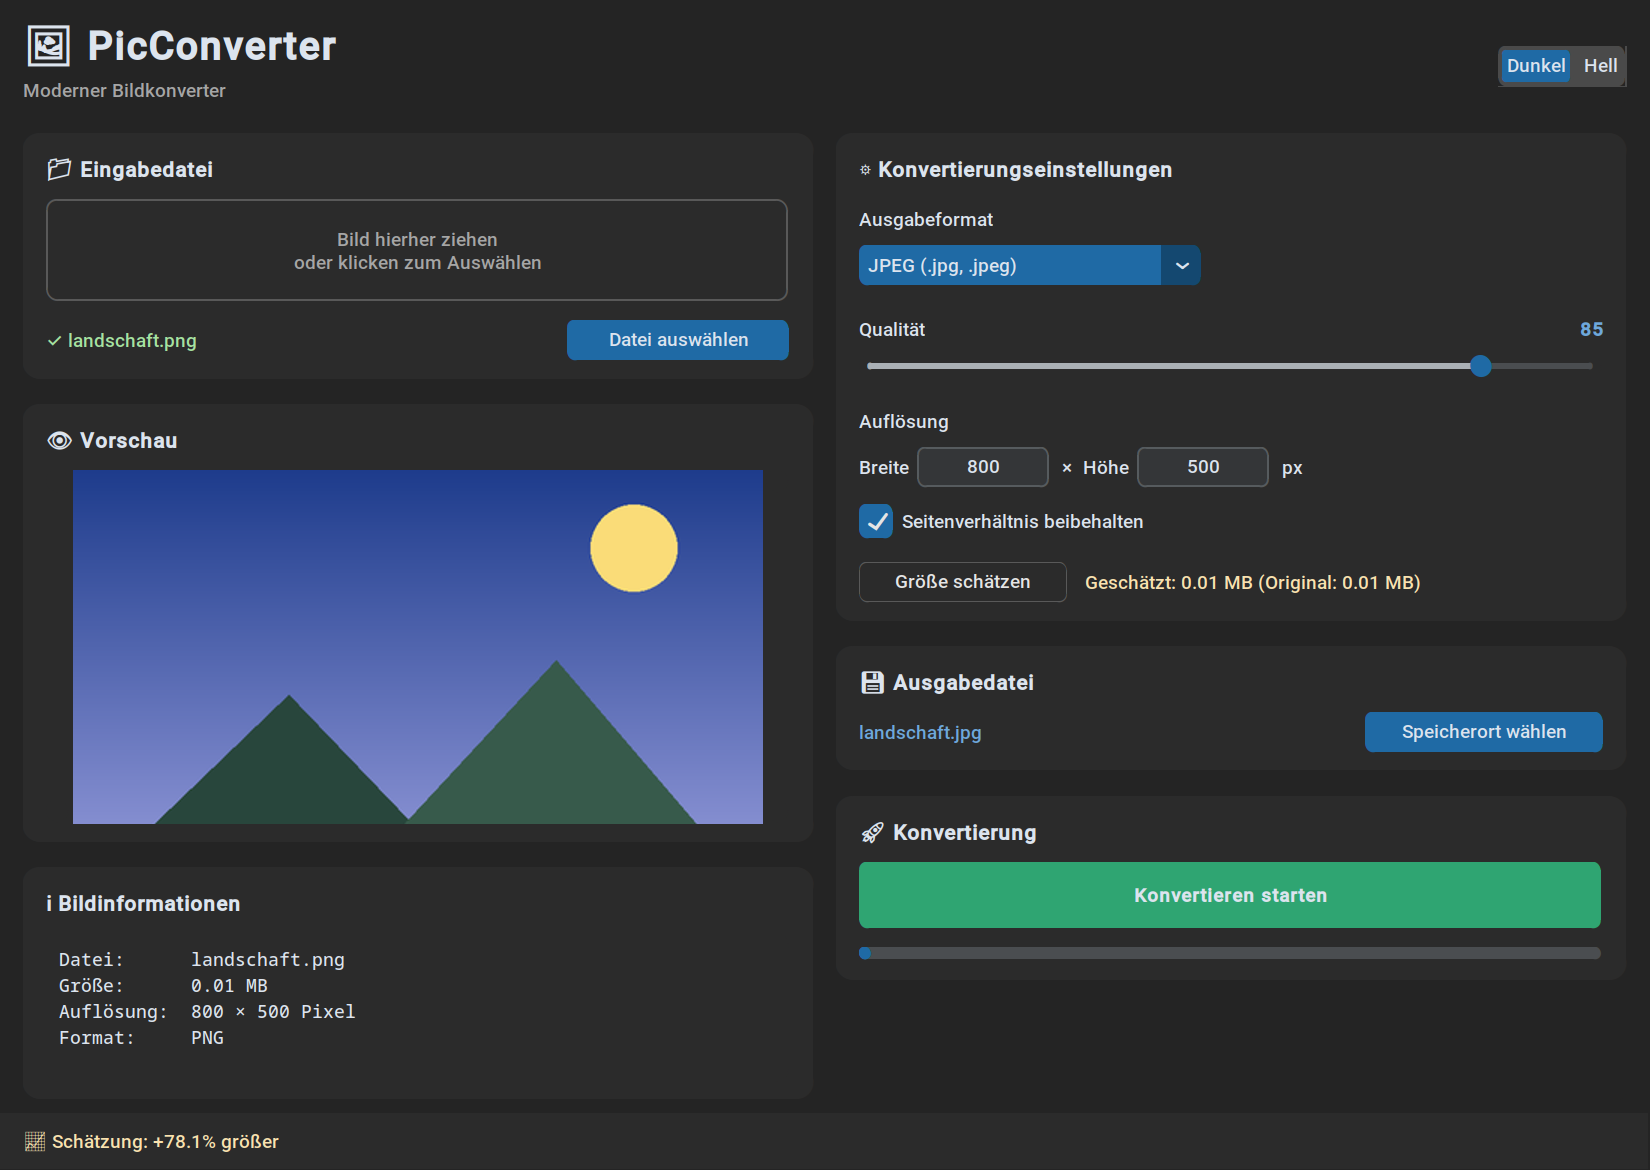
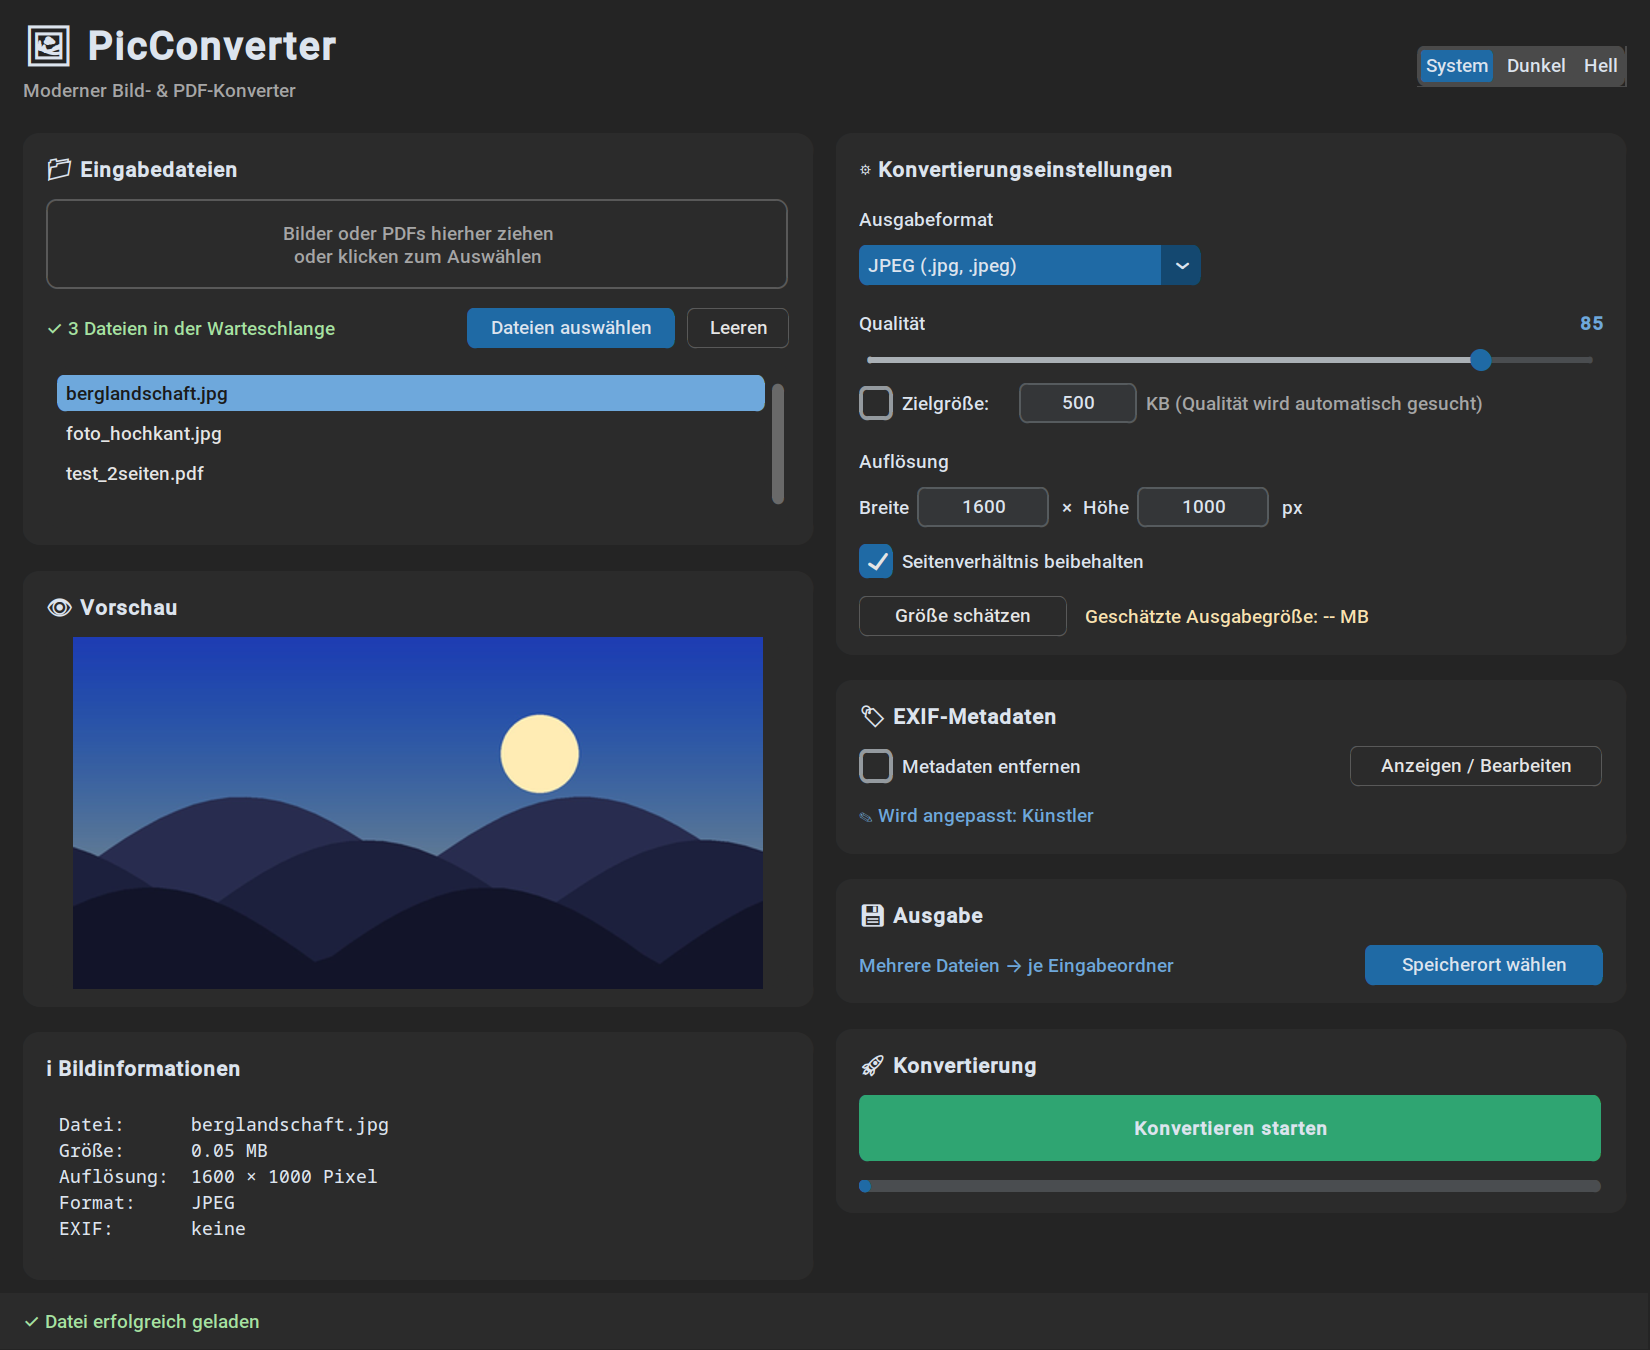
Packaging, Desktop-Eintrag, zweisprachige README, neuer Screenshot
- pyproject.toml mit Entry Points (picconverter, picconverter-gui), v2.0.0
- picconverter.desktop für Linux-Startmenü
- README überarbeitet + englische README.en.md

diff --git a/README.en.md b/README.en.md
@@ -1,0 +1,192 @@
+# 🖼️ PicConverter
+
+[![Python](https://img.shields.io/badge/Python-3.9+-3776AB?style=flat&logo=python&logoColor=white)](https://www.python.org/)
+[![Tests](https://github.com/0xGI0/PicConverter/actions/workflows/tests.yml/badge.svg)](https://github.com/0xGI0/PicConverter/actions/workflows/tests.yml)
+[![CustomTkinter](https://img.shields.io/badge/GUI-CustomTkinter-1f538d?style=flat)](https://github.com/TomSchimansky/CustomTkinter)
+[![License: MIT](https://img.shields.io/badge/License-MIT-yellow.svg)](LICENSE)
+
+🇩🇪 [Deutsche Version](README.md)
+
+An **image & PDF conversion tool** for Python with a modern GUI (CustomTkinter) and a CLI for automation. Converts single files or whole batches between all common image formats and PDF — with EXIF management, target-size mode, and size estimation.
+
+> **Note:** The user interface and CLI output are currently in German.
+
+![Screenshot](screenshot.png)
+
+---
+
+## ✨ Features
+
+- **All common image formats**: JPEG, PNG, BMP, TIFF, GIF, WebP, ICO
+- **PDF in both directions**: save images as PDF or export PDF pages as images (page selection, all pages, DPI choice)
+- **Batch processing**: queue multiple files via drag & drop, or use globs like `*.jpg` in the CLI
+- **Combined PDF**: merge multiple images (and PDF pages) into one multi-page PDF
+- **EXIF metadata**: automatic correct image orientation; keep, strip, or edit metadata fields (artist, copyright, date, …)
+- **Target size instead of quality**: specify "max. 500 KB" — the matching quality is found automatically (JPEG/WebP)
+- **Adjustable quality/compression**, **resizing** with aspect-ratio preservation, and **size estimation** before converting
+- **Modern interface**: follows the system theme (switchable to dark/light), live preview, PDF page navigation, inline results with "open folder"
+- **Two modes**: GUI for interactive use, CLI for scripts and automation
+
+---
+
+## 🚀 Installation
+
+```bash
+git clone https://github.com/0xGI0/PicConverter.git
+cd PicConverter
+pip install -r requirements.txt
+```
+
+This installs:
+
+| Package | Purpose |
+|---------|---------|
+| `Pillow` | Image processing |
+| `customtkinter` | Modern GUI |
+| `tkinterdnd2` | Drag & drop (optional — the GUI works without it) |
+| `PyMuPDF` | PDF → image (optional — image → PDF works without it) |
+
+**Install as a package (optional):** afterwards the commands `picconverter` and `picconverter-gui` are available system-wide:
+
+```bash
+pip install .[all]        # or: pipx install .[all]
+```
+
+**Application menu entry (Linux, after package installation):**
+
+```bash
+cp picconverter.desktop ~/.local/share/applications/
+```
+
+**Note (Linux):** tkinter itself is installed via the package manager if missing:
+
+```bash
+sudo apt-get install python3-tk    # Ubuntu/Debian
+sudo dnf install python3-tkinter   # Fedora/RHEL
+sudo pacman -S tk                  # Arch Linux
+```
+
+---
+
+## 💻 Usage
+
+### 🎨 GUI
+
+```bash
+python picconverter_gui.py        # or: picconverter-gui
+```
+
+1. Drag images or PDFs into the window or load them via **"Dateien auswählen"** (select files) — multiple files form a queue; for PDFs a **page navigation** appears
+2. Choose the **output format** (including PDF); with PDF as target, all inputs can be **merged into one PDF**
+3. Adjust the **quality** — or set a **target size in KB** (JPEG/WebP)
+4. Optionally **strip EXIF metadata** or edit individual fields via **"Anzeigen / Bearbeiten"** (view / edit)
+5. Optionally enter a new **resolution**, use **"Größe schätzen"** (estimate size) for a forecast
+6. Hit **"Konvertieren starten"** (start conversion) — results appear inline, **"📂 Ordner öffnen"** (open folder) takes you to the files
+
+The switch in the top right corner toggles between **system**, **dark**, and **light** mode.
+
+### ⌨️ CLI
+
+```bash
+python picconverter_cli.py <inputs...> -f <format> [options]
+```
+
+**Examples:**
+
+```bash
+# JPG to PNG
+python picconverter_cli.py photo.jpg -f png
+
+# Batch: all JPGs to WebP into an output directory
+python picconverter_cli.py *.jpg -f webp -q 85 -o output/
+
+# Compress to at most 500 KB (quality is found automatically)
+python picconverter_cli.py photo.jpg -f jpg --target-size 500
+
+# Save an image as PDF
+python picconverter_cli.py photo.jpg -f pdf
+
+# Export all pages of a PDF as PNG (300 DPI)
+python picconverter_cli.py document.pdf -f png --page all --dpi 300
+
+# Merge multiple scans into one multi-page PDF
+python picconverter_cli.py scan1.png scan2.png -f pdf --merge -o document.pdf
+
+# Strip or edit EXIF metadata
+python picconverter_cli.py photo.jpg -f jpg --strip-exif
+python picconverter_cli.py photo.jpg -f jpg --exif-set "Artist=Jane Doe" --exif-set Copyright=
+
+# Size estimate only (without converting)
+python picconverter_cli.py image.jpg -f webp -q 85 --estimate
+```
+
+**Options:**
+
+| Option | Short | Description | Example |
+|--------|-------|-------------|---------|
+| `--format` | `-f` | Target format (required) | `-f png` |
+| `--output` | `-o` | Output file or directory | `-o image.jpg` |
+| `--quality` | `-q` | Quality/compression | `-q 90` |
+| `--target-size` | | Target size in KB (JPEG/WebP) | `--target-size 500` |
+| `--width` | `-w` | Width in pixels¹ | `-w 1920` |
+| `--height` | | Height in pixels¹ | `--height 1080` |
+| `--page` | | PDF page or `all` (default: 1) | `--page all` |
+| `--dpi` | | PDF render DPI (default: 150) | `--dpi 300` |
+| `--merge` | | Everything into one PDF (`-f pdf` only) | `--merge` |
+| `--strip-exif` | | Remove EXIF metadata | `--strip-exif` |
+| `--exif-set` | | Set/delete an EXIF field | `--exif-set Artist=Me` |
+| `--estimate` | | Estimate size only | `--estimate` |
+
+¹ If only one dimension is given, the other is derived preserving the aspect ratio.
+**Note:** `-h` is reserved for `--help`, hence `--height` for the height.
+
+**EXIF fields for `--exif-set`:** `ImageDescription`, `Artist`, `Copyright`, `Software`, `DateTime`, `Make`, `Model` — an empty value (`--exif-set Copyright=`) deletes the field.
+
+---
+
+## 📊 Supported formats
+
+| Format | Input | Output | Quality setting | Range |
+|--------|-------|--------|-----------------|-------|
+| **JPEG** | ✅ | ✅ | Quality | 1–100 |
+| **PNG** | ✅ | ✅ | Compression | 0–9 |
+| **WebP** | ✅ | ✅ | Quality | 0–100 |
+| **BMP** | ✅ | ✅ | – | – |
+| **TIFF** | ✅ | ✅ | Compression | 0–9 |
+| **GIF** | ✅ | ✅ | – | – |
+| **ICO** | ✅ | ✅ | – | – |
+| **PDF** | ✅ (requires PyMuPDF) | ✅ | – | – |
+
+- **JPEG/WebP**: higher values = better quality (default: 85 / 80)
+- **PNG**: lower values = better quality (default: 6)
+- **TIFF**: LZW compression is applied automatically
+- **Transparency**: JPEG, BMP, and PDF do not support transparency — it is automatically replaced with white
+- **EXIF**: carried over to JPEG, PNG, WebP, and TIFF; the orientation tag is applied on load so portrait photos stay upright
+
+---
+
+## 🛠️ Technical details
+
+| Component | Details |
+|-----------|---------|
+| **Python version** | 3.9+ |
+| **Architecture** | `picconverter_core` (shared logic) + CLI + GUI |
+| **Image processing** | Pillow (PIL) |
+| **PDF rendering** | PyMuPDF (optional, PDF → image only) |
+| **GUI framework** | CustomTkinter |
+| **Drag & drop** | tkinterdnd2 (optional) |
+| **Tests** | pytest (`pytest tests/`), CI via GitHub Actions |
+
+---
+
+## 🤝 Contributing
+
+Contributions are welcome! Fork the repository, create a feature branch, and open a pull request. Run the tests with `pytest tests/`.
+
+**Feature ideas:** export presets (e.g. "web optimized"), watermarks, full support for animated GIFs/WebPs
+
+---
+
+## 📄 License
+
+This project is licensed under the [MIT License](LICENSE).

diff --git a/README.md b/README.md
@@ -1,11 +1,13 @@
 # 🖼️ PicConverter
 
-[![Python](https://img.shields.io/badge/Python-3.8+-3776AB?style=flat&logo=python&logoColor=white)](https://www.python.org/)
+[![Python](https://img.shields.io/badge/Python-3.9+-3776AB?style=flat&logo=python&logoColor=white)](https://www.python.org/)
+[![Tests](https://github.com/0xGI0/PicConverter/actions/workflows/tests.yml/badge.svg)](https://github.com/0xGI0/PicConverter/actions/workflows/tests.yml)
 [![CustomTkinter](https://img.shields.io/badge/GUI-CustomTkinter-1f538d?style=flat)](https://github.com/TomSchimansky/CustomTkinter)
-[![Pillow](https://img.shields.io/badge/Pillow-10.0+-92C83E?style=flat)](https://python-pillow.org/)
 [![License: MIT](https://img.shields.io/badge/License-MIT-yellow.svg)](LICENSE)
 
-Ein **Bildkonvertierungs-Tool** für Python mit moderner GUI (CustomTkinter) und CLI für Automatisierung. Konvertiert zwischen allen gängigen Bildformaten, mit Qualitätsregelung, Größenänderung und Größenprognose.
+🇬🇧 [English version](README.en.md)
+
+Ein **Bild- & PDF-Konvertierungs-Tool** für Python mit moderner GUI (CustomTkinter) und CLI für Automatisierung. Konvertiert einzelne Dateien oder ganze Stapel zwischen allen gängigen Bildformaten und PDF — mit EXIF-Verwaltung, Zielgrößen-Modus und Größenprognose.
 
 ![Screenshot](screenshot.png)
 
@@ -14,13 +16,13 @@ Ein **Bildkonvertierungs-Tool** für Python mit moderner GUI (CustomTkinter) und
 ## ✨ Features
 
 - **Alle gängigen Bildformate**: JPEG, PNG, BMP, TIFF, GIF, WebP, ICO
-- **Moderne Oberfläche**: CustomTkinter mit Dark Mode (Standard) und umschaltbarem Light Mode
-- **Drag & Drop**: Bilddateien einfach ins Fenster ziehen
-- **Live-Vorschau** und detaillierte Bildinformationen
-- **Anpassbare Qualität/Kompression** je nach Zielformat
-- **Auflösungsänderung** mit optionalem Erhalt des Seitenverhältnisses
-- **Größenprognose** vor der Konvertierung
-- **Fortschrittsanzeige und Statusleiste**: Jeder Schritt und jeder Fehler wird sichtbar gemeldet
+- **PDF in beide Richtungen**: Bilder als PDF speichern oder PDF-Seiten als Bild exportieren (Seitenauswahl, alle Seiten, DPI-Wahl)
+- **Batch-Verarbeitung**: mehrere Dateien per Drag & Drop in die Warteschlange bzw. Globs wie `*.jpg` in der CLI
+- **Sammel-PDF**: mehrere Bilder (und PDF-Seiten) zu einer mehrseitigen PDF zusammenfassen
+- **EXIF-Metadaten**: automatisch korrekte Bildausrichtung, Metadaten wahlweise übernehmen, komplett entfernen oder gezielt bearbeiten (Autor, Copyright, Datum, …)
+- **Zielgröße statt Qualität**: „max. 500 KB“ angeben — die passende Qualität wird automatisch gesucht (JPEG/WebP)
+- **Anpassbare Qualität/Kompression**, **Auflösungsänderung** mit Seitenverhältnis-Erhalt und **Größenprognose** vor der Konvertierung
+- **Moderne Oberfläche**: folgt dem System-Theme (umschaltbar auf Dunkel/Hell), Live-Vorschau, PDF-Seitennavigation, Ergebnis direkt in der Oberfläche mit „Ordner öffnen“
 - **Zwei Modi**: GUI für interaktive Nutzung, CLI für Skripte und Automatisierung
 
 ---
@@ -40,6 +42,19 @@ Das installiert:
 | `Pillow` | Bildverarbeitung |
 | `customtkinter` | Moderne GUI |
 | `tkinterdnd2` | Drag & Drop (optional — die GUI läuft auch ohne) |
+| `PyMuPDF` | PDF → Bild (optional — Bild → PDF geht auch ohne) |
+
+**Als Paket installieren (optional):** Danach stehen die Befehle `picconverter` und `picconverter-gui` systemweit zur Verfügung:
+
+```bash
+pip install .[all]        # oder: pipx install .[all]
+```
+
+**Startmenü-Eintrag (Linux, nach Paketinstallation):**
+
+```bash
+cp picconverter.desktop ~/.local/share/applications/
+```
 
 **Hinweis (Linux):** tkinter selbst wird über den Paketmanager installiert, falls es fehlt:
 
@@ -56,22 +71,22 @@ sudo pacman -S tk                  # Arch Linux
 ### 🎨 GUI
 
 ```bash
-python picconverter_gui.py
+python picconverter_gui.py        # oder: picconverter-gui
 ```
 
-1. Bild **per Drag & Drop** ins Fenster ziehen oder über **„Datei auswählen"** laden
-2. **Ausgabeformat** wählen
-3. **Qualität/Kompression** anpassen (falls das Format es unterstützt)
-4. Optional: neue **Auflösung** eingeben
-5. Optional: **„Größe schätzen"** für eine Prognose
-6. **„Konvertieren starten"** — Fortschritt und Ergebnis erscheinen direkt in der GUI
+1. Bilder oder PDFs **per Drag & Drop** ins Fenster ziehen oder über **„Dateien auswählen"** laden — mehrere Dateien bilden eine Warteschlange, bei PDFs erscheint eine **Seitennavigation**
+2. **Ausgabeformat** wählen (inkl. PDF); bei Zielformat PDF lassen sich alle Eingaben zu **einer PDF zusammenfassen**
+3. **Qualität** anpassen — oder eine **Zielgröße in KB** festlegen (JPEG/WebP)
+4. **EXIF-Metadaten** wahlweise entfernen oder über **„Anzeigen / Bearbeiten"** einzelne Felder ändern
+5. Optional: neue **Auflösung** eingeben, **„Größe schätzen"** für eine Prognose
+6. **„Konvertieren starten"** — das Ergebnis erscheint direkt in der Oberfläche, **„📂 Ordner öffnen"** führt zu den Dateien
 
-Über den Schalter oben rechts lässt sich zwischen **Dunkel** und **Hell** umschalten.
+Über den Schalter oben rechts lässt sich zwischen **System**, **Dunkel** und **Hell** umschalten.
 
 ### ⌨️ CLI
 
 ```bash
-python picconverter_cli.py <eingabedatei> -f <format> [optionen]
+python picconverter_cli.py <eingaben...> -f <format> [optionen]
 ```
 
 **Beispiele:**
@@ -80,11 +95,24 @@ python picconverter_cli.py <eingabedatei> -f <format> [optionen]
 # JPG zu PNG
 python picconverter_cli.py foto.jpg -f png
 
-# WebP mit 85% Qualität
-python picconverter_cli.py bild.png -f webp -q 85
+# Batch: alle JPGs zu WebP in einen Ausgabeordner
+python picconverter_cli.py *.jpg -f webp -q 85 -o ausgabe/
 
-# Auf 1920x1080 skalieren, Ausgabedatei festlegen
-python picconverter_cli.py foto.png -f jpg -q 95 -w 1920 --height 1080 -o ergebnis.jpg
+# Auf maximal 500 KB komprimieren (Qualität wird automatisch gesucht)
+python picconverter_cli.py foto.jpg -f jpg --target-size 500
+
+# Bild als PDF speichern
+python picconverter_cli.py foto.jpg -f pdf
+
+# Alle Seiten einer PDF als PNG exportieren (300 DPI)
+python picconverter_cli.py dokument.pdf -f png --page all --dpi 300
+
+# Mehrere Scans zu einer mehrseitigen PDF zusammenfassen
+python picconverter_cli.py scan1.png scan2.png -f pdf --merge -o dokument.pdf
+
+# EXIF-Metadaten entfernen bzw. bearbeiten
+python picconverter_cli.py foto.jpg -f jpg --strip-exif
+python picconverter_cli.py foto.jpg -f jpg --exif-set "Artist=Max Mustermann" --exif-set Copyright=
 
 # Nur Größenprognose (ohne zu konvertieren)
 python picconverter_cli.py bild.jpg -f webp -q 85 --estimate
@@ -95,13 +123,22 @@ python picconverter_cli.py bild.jpg -f webp -q 85 --estimate
 | Option | Kürzel | Beschreibung | Beispiel |
 |--------|--------|--------------|----------|
 | `--format` | `-f` | Zielformat (erforderlich) | `-f png` |
-| `--output` | `-o` | Ausgabedatei (optional) | `-o bild.jpg` |
+| `--output` | `-o` | Ausgabedatei oder -ordner | `-o bild.jpg` |
 | `--quality` | `-q` | Qualität/Kompression | `-q 90` |
-| `--width` | `-w` | Breite in Pixeln | `-w 1920` |
-| `--height` | | Höhe in Pixeln | `--height 1080` |
+| `--target-size` | | Zielgröße in KB (JPEG/WebP) | `--target-size 500` |
+| `--width` | `-w` | Breite in Pixeln¹ | `-w 1920` |
+| `--height` | | Höhe in Pixeln¹ | `--height 1080` |
+| `--page` | | PDF-Seite oder `all` (Standard: 1) | `--page all` |
+| `--dpi` | | PDF-Render-DPI (Standard: 150) | `--dpi 300` |
+| `--merge` | | Alles in eine PDF (nur `-f pdf`) | `--merge` |
+| `--strip-exif` | | EXIF-Metadaten entfernen | `--strip-exif` |
+| `--exif-set` | | EXIF-Feld setzen/löschen | `--exif-set Artist=Ich` |
 | `--estimate` | | Nur Größe schätzen | `--estimate` |
 
+¹ Wird nur eine Dimension angegeben, wird die andere seitenverhältnistreu ergänzt.
 **Hinweis:** `-h` ist für `--help` reserviert, daher `--height` für die Höhe.
+
+**EXIF-Felder für `--exif-set`:** `ImageDescription`, `Artist`, `Copyright`, `Software`, `DateTime`, `Make`, `Model` — ein leerer Wert (`--exif-set Copyright=`) löscht das Feld.
 
 ---
 
@@ -116,11 +153,13 @@ python picconverter_cli.py bild.jpg -f webp -q 85 --estimate
 | **TIFF** | ✅ | ✅ | Kompression | 0–9 |
 | **GIF** | ✅ | ✅ | – | – |
 | **ICO** | ✅ | ✅ | – | – |
+| **PDF** | ✅ (benötigt PyMuPDF) | ✅ | – | – |
 
 - **JPEG/WebP**: Höhere Werte = bessere Qualität (Standard: 85 bzw. 80)
 - **PNG**: Niedrigere Werte = bessere Qualität (Standard: 6)
 - **TIFF**: LZW-Kompression wird automatisch angewendet
-- **Transparenz**: JPEG und BMP unterstützen keine Transparenz — sie wird automatisch durch Weiß ersetzt
+- **Transparenz**: JPEG, BMP und PDF unterstützen keine Transparenz — sie wird automatisch durch Weiß ersetzt
+- **EXIF**: wird in JPEG, PNG, WebP und TIFF übernommen; die Bildausrichtung (Orientation) wird beim Laden eingerechnet, damit Hochkant-Fotos korrekt bleiben
 
 ---
 
@@ -128,11 +167,13 @@ python picconverter_cli.py bild.jpg -f webp -q 85 --estimate
 
 | Komponente | Details |
 |-----------|---------|
-| **Python-Version** | 3.8+ |
+| **Python-Version** | 3.9+ |
+| **Architektur** | `picconverter_core` (gemeinsame Logik) + CLI + GUI |
 | **Bildverarbeitung** | Pillow (PIL) |
+| **PDF-Rendering** | PyMuPDF (optional, nur für PDF → Bild) |
 | **GUI-Framework** | CustomTkinter |
 | **Drag & Drop** | tkinterdnd2 (optional) |
-| **Resampling** | LANCZOS (höchste Qualität) |
+| **Tests** | pytest (`pytest tests/`), CI via GitHub Actions |
 
 ---
 
@@ -168,13 +209,21 @@ Die GUI läuft auch ohne — für Drag & Drop `tkinterdnd2` installieren:
 pip install tkinterdnd2
 ```
 
+**„PDF-Eingabe benötigt PyMuPDF"**
+
+PDF → Bild braucht den PDF-Renderer PyMuPDF (Bild → PDF geht auch ohne):
+
+```bash
+pip install pymupdf
+```
+
 ---
 
 ## 🤝 Beitragen
 
-Beiträge sind willkommen! Fork das Repository, erstelle einen Feature-Branch und öffne einen Pull Request.
+Beiträge sind willkommen! Fork das Repository, erstelle einen Feature-Branch und öffne einen Pull Request. Tests laufen mit `pytest tests/`.
 
-**Feature-Ideen:** Batch-Verarbeitung, Export-Presets (z.B. „Web optimiert"), Metadaten-Erhaltung
+**Feature-Ideen:** Export-Presets (z.B. „Web optimiert"), Wasserzeichen, animierte GIFs/WebPs vollständig übernehmen
 
 ---
 